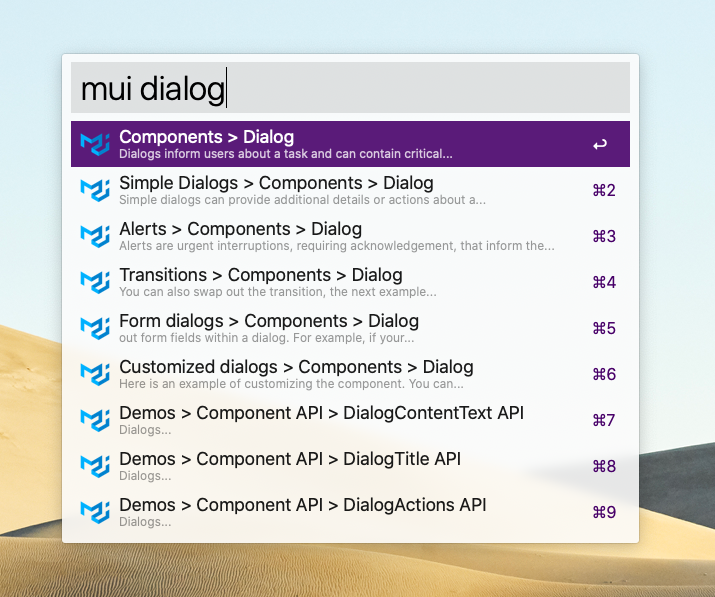
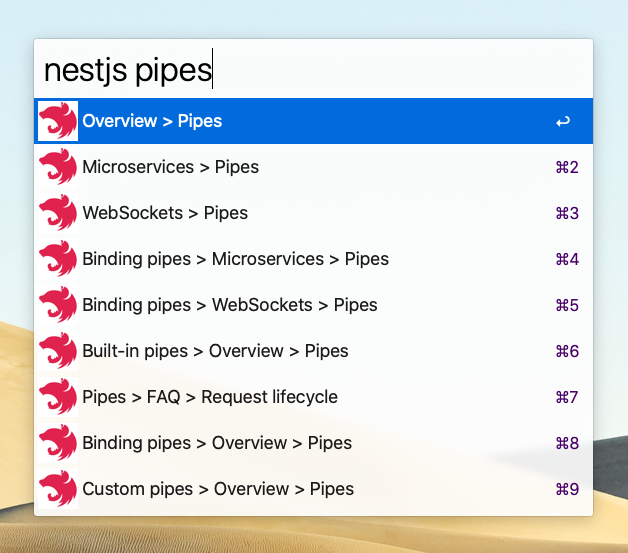
update readme

diff --git a/README.md b/README.md
@@ -1,9 +1,9 @@
-# Search Material UI Docs Workflow for Alfred 4
+# Search NestJS Docs Workflow for Alfred 4
 
 ![GitHub release](https://img.shields.io/github/release/alfonmga/mui-docs-alfred-workflow.svg)
 ![GitHub](https://img.shields.io/github/license/alfonmga/mui-docs-alfred-workflow.svg)
 
-> [Alfred 4](https://www.alfredapp.com) workflow to search through the [Material-UI](https://material-ui-next.com/) documentation.
+> [Alfred 4](https://www.alfredapp.com) workflow to search through the [NestJS](https://docs.nestjs.com) documentation.
 
 ![worflow demo](demo.png)
 
